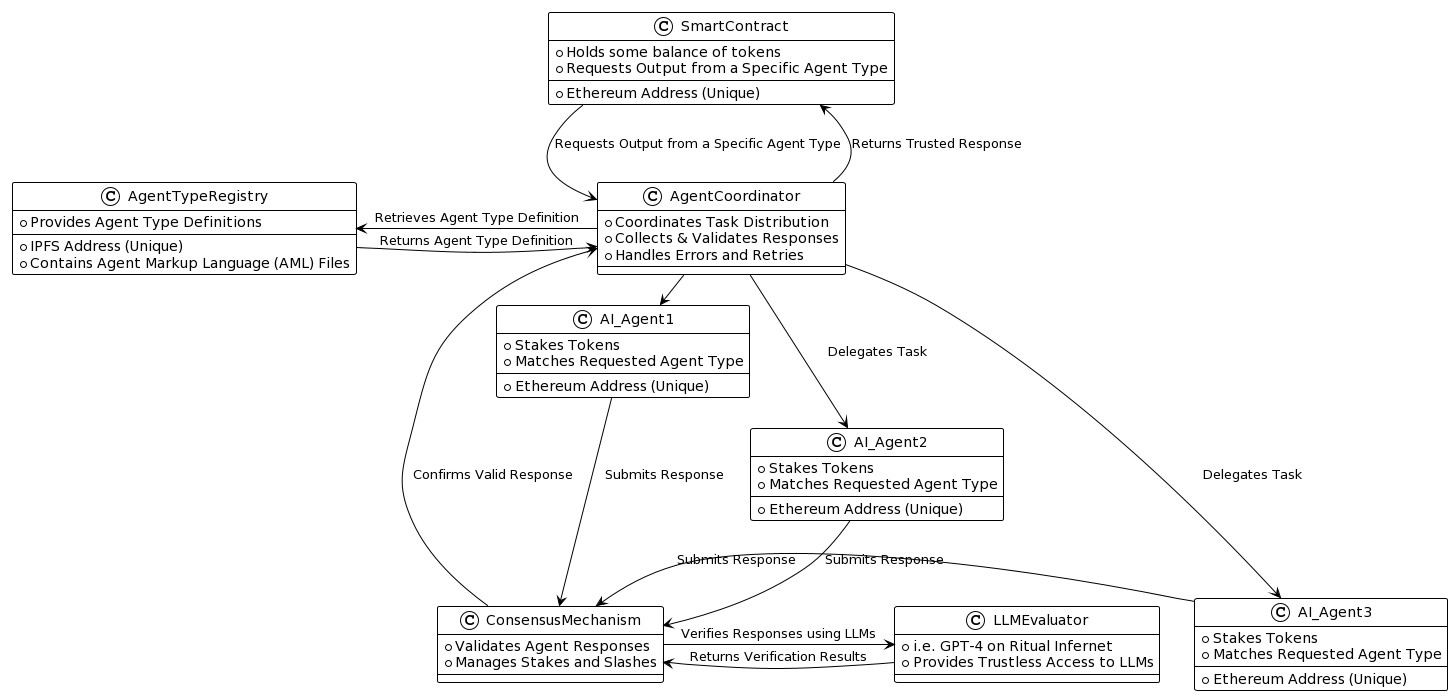
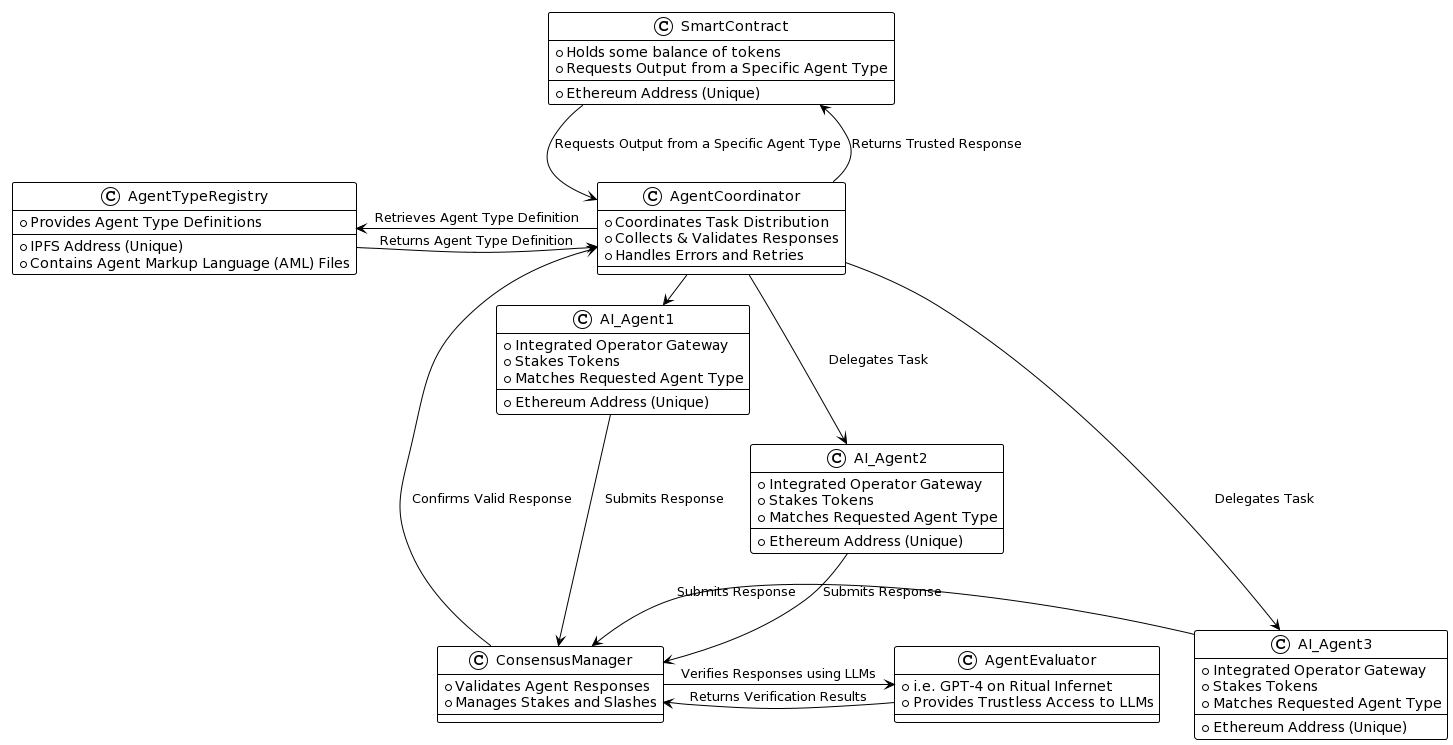
updated trusted agents

diff --git a/graphics/trusted_agents/trusted_agents.md b/graphics/trusted_agents/trusted_agents.md
@@ -1,4 +1,4 @@
-@startuml  
+@startuml
 !theme plain    
 !define RECTANGLE class    
   
@@ -22,28 +22,31 @@ RECTANGLE AgentTypeRegistry {
   
 RECTANGLE AI_Agent1 {  
   + Ethereum Address (Unique)  
+  + Integrated Operator Gateway
   + Stakes Tokens  
   + Matches Requested Agent Type  
 }  
   
 RECTANGLE AI_Agent2 {  
   + Ethereum Address (Unique)  
+  + Integrated Operator Gateway
   + Stakes Tokens  
   + Matches Requested Agent Type  
 }  
   
 RECTANGLE AI_Agent3 {  
   + Ethereum Address (Unique)  
+  + Integrated Operator Gateway
   + Stakes Tokens  
   + Matches Requested Agent Type  
 }  
   
-RECTANGLE ConsensusMechanism {  
+RECTANGLE ConsensusManager {  
   + Validates Agent Responses  
   + Manages Stakes and Slashes  
 }  
   
-RECTANGLE LLMEvaluator {  
+RECTANGLE AgentEvaluator {  
   + i.e. GPT-4 on Ritual Infernet
   + Provides Trustless Access to LLMs  
 }  
@@ -54,11 +57,11 @@ AgentTypeRegistry -down-> AgentCoordinator : Returns Agent Type Definition
 AgentCoordinator -right-> AI_Agent1 : Delegates Task  
 AgentCoordinator -down-> AI_Agent2 : Delegates Task  
 AgentCoordinator -left-> AI_Agent3 : Delegates Task  
-AI_Agent1 -right-> ConsensusMechanism : Submits Response  
-AI_Agent2 -down-> ConsensusMechanism : Submits Response  
-AI_Agent3 -left-> ConsensusMechanism : Submits Response  
-ConsensusMechanism -right-> LLMEvaluator : Verifies Responses using LLMs  
-LLMEvaluator -up-> ConsensusMechanism : Returns Verification Results  
-ConsensusMechanism -up-> AgentCoordinator : Confirms Valid Response  
-AgentCoordinator -up-> SmartContract : Returns Trusted Response  
-@enduml  
+AI_Agent1 -right-> ConsensusManager : Submits Response  
+AI_Agent2 -down-> ConsensusManager : Submits Response  
+AI_Agent3 -left-> ConsensusManager : Submits Response  
+ConsensusManager -right-> AgentEvaluator : Verifies Responses using LLMs  
+AgentEvaluator -up-> ConsensusManager : Returns Verification Results  
+ConsensusManager -up-> AgentCoordinator : Confirms Valid Response  
+AgentCoordinator -up-> SmartContract : Returns Trusted Response
+@enduml
